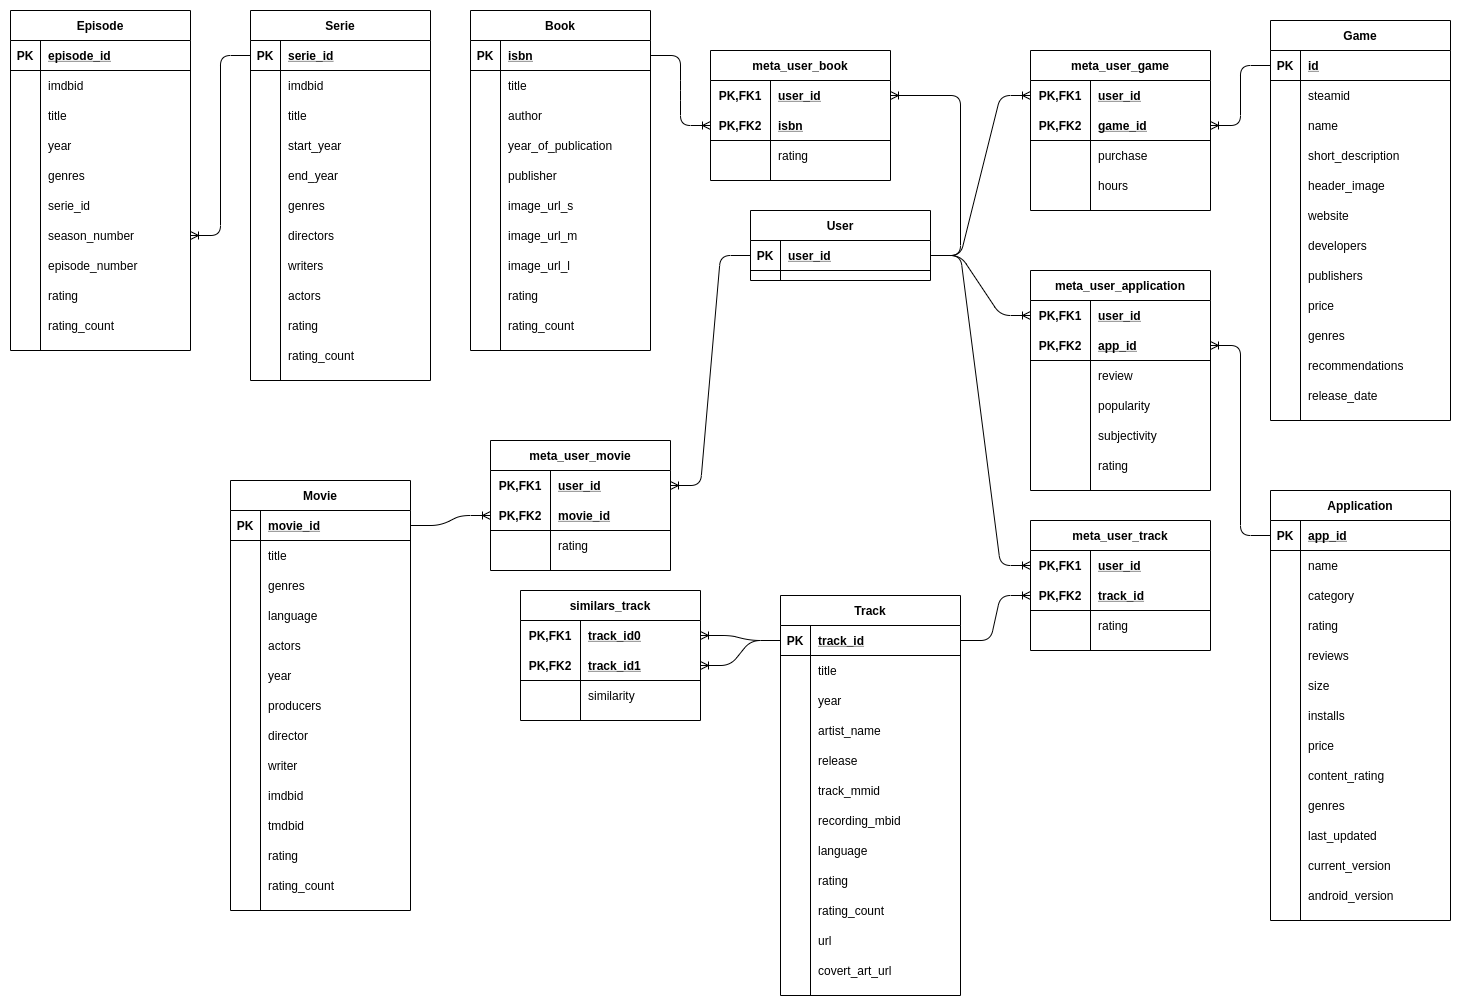
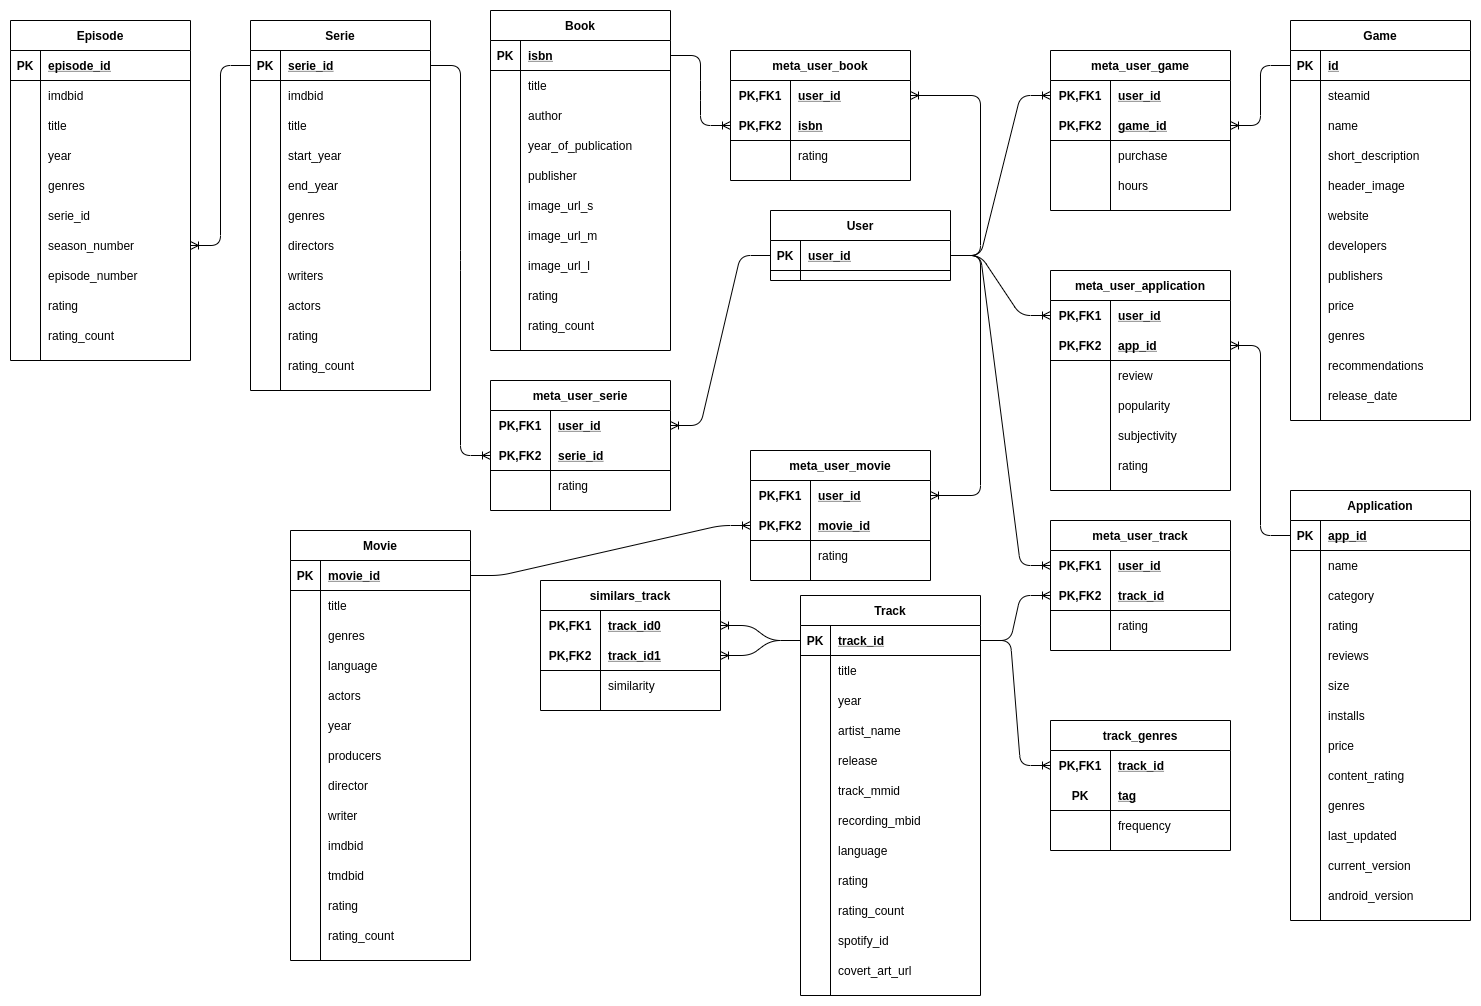
Update recovery dataset schema, and track object definition

diff --git a/docs/developers/database.md b/docs/developers/database.md
@@ -126,7 +126,7 @@
 | language | String |  |
 | rating | Float | Average rating |
 | rating_count | Integer | Number of user rating |
-| url | Text | Resource URL linked with this track |
+| spotify_id | String | Track spotify id |
 | covert_art_url | Text |  |
 
 ### User
